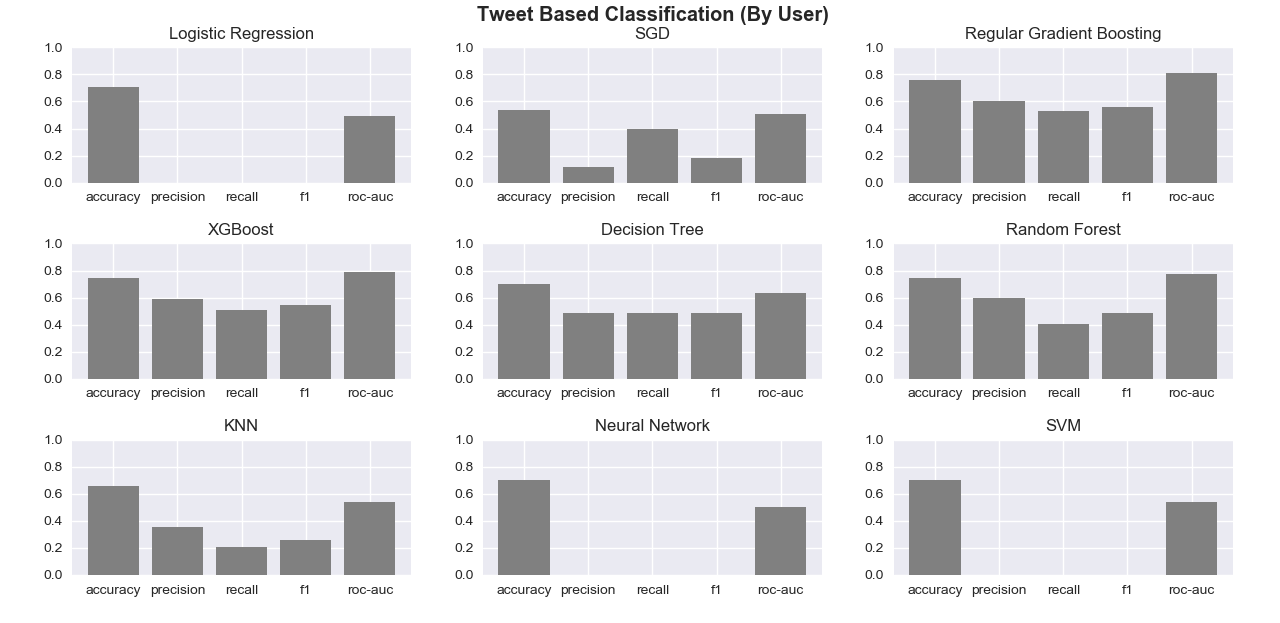
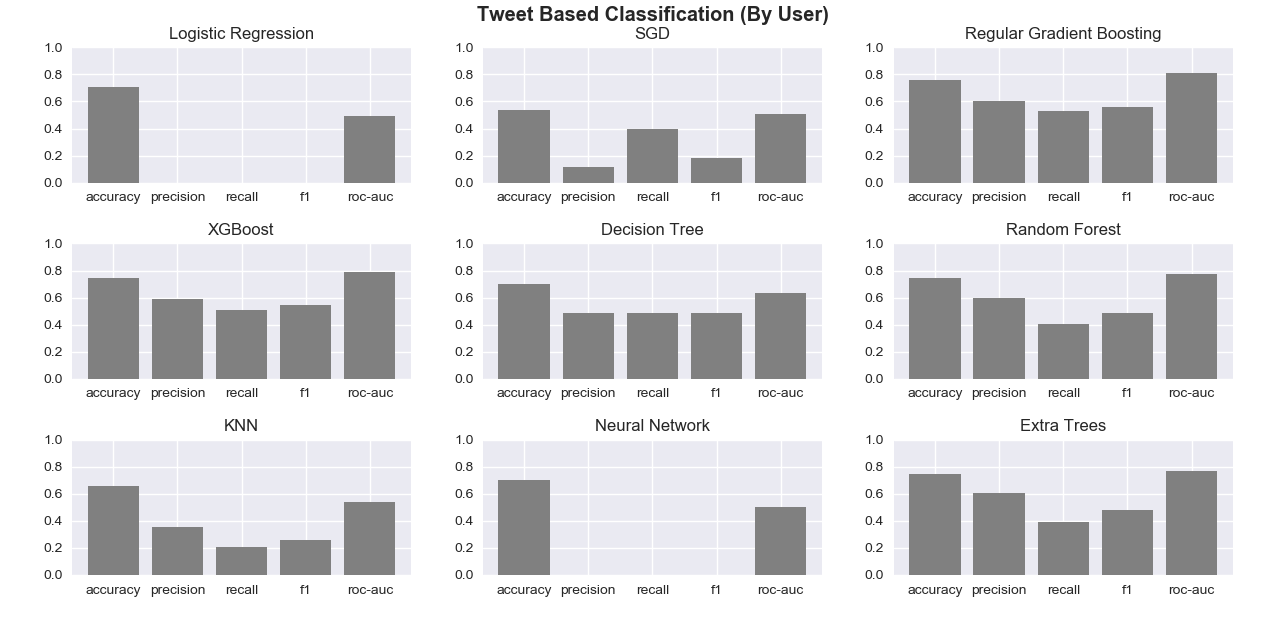
updated results

Changed region(s): [[0.75, 0.7319, 0.9688, 0.9454], [0.7812, 0.6709, 0.875, 0.7014], [0.7188, 0.7624, 0.75, 0.7929]]

diff --git a/classification.py b/classification.py
@@ -9,7 +9,7 @@ warnings.filterwarnings('ignore')
 import numpy as np
 import pandas as pd
 
-dataset = pd.read_csv("filtered dataset/tweet based classification (by tweet).csv")
+dataset = pd.read_csv("filtered dataset/user based classification.csv")
 dataset.shape
 dataset.head()
 dataset.describe()
@@ -34,7 +34,7 @@ from sklearn.tree import DecisionTreeClassifier
 from sklearn.ensemble import RandomForestClassifier
 from sklearn.neighbors import KNeighborsClassifier
 from sklearn.neural_network import MLPClassifier
-from sklearn.svm import SVC
+from sklearn.ensemble import ExtraTreesClassifier
 
 classifiers = {"Logistic Regression": LogisticRegression(random_state = seed),
                "SGD": SGDClassifier(random_state = seed),
@@ -44,7 +44,7 @@ classifiers = {"Logistic Regression": LogisticRegression(random_state = seed),
                "Random Forest": RandomForestClassifier(n_estimators = 20, random_state = seed),
                "KNN": KNeighborsClassifier(n_neighbors = 5),
                "Neural Network": MLPClassifier(hidden_layer_sizes = (10, 10, 10), max_iter = 10000, random_state = seed),
-               "SVM": SVC(random_state = seed)}
+               "Extra Trees": ExtraTreesClassifier(random_state = seed)}
 
 from numpy import mean, std
 from sklearn.model_selection import cross_validate
@@ -85,7 +85,7 @@ for classifier in classifiers:
     
 plt.bar(list(measures.keys()), [measure[0] for measure in list(measures.values())], color = "grey")
 
-plt.suptitle("Tweet Based Classification (By Tweet)", fontweight = "bold", fontsize = "x-large", x = 0.51, y = 0.99)
+plt.suptitle("User Based Classification", fontweight = "bold", fontsize = "x-large", x = 0.51, y = 0.99)
 
 wm = plt.get_current_fig_manager()
 wm.window.state("zoomed")
